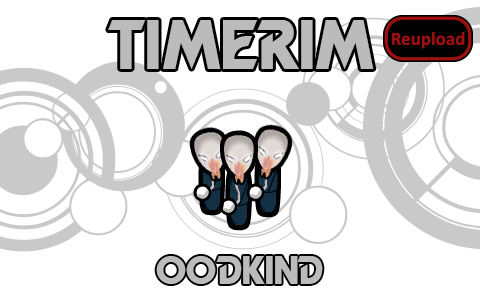
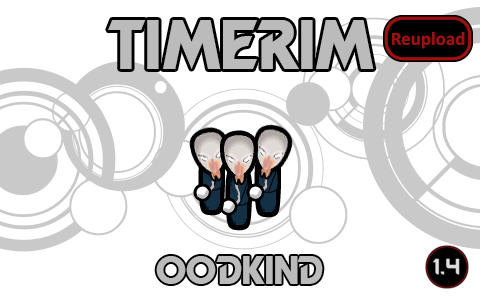
Last update, added end-of-life message

Changed region(s): [[0.875, 0.81, 1.0, 0.96]]

diff --git a/README.md b/README.md
@@ -5,7 +5,7 @@
 Update of demeggys mod
 https://steamcommunity.com/sharedfiles/filedetails/?id=1212506909
 
-![Image](https://i.imgur.com/pufA0kM.png)
+![Image](https://i.imgur.com/KFjAmff.png)
 
 	
 ![Image](https://i.imgur.com/Z4GOv8H.png)
@@ -35,12 +35,13 @@ Large thanks to Erdelf and Xen for their assistance in configuring the Framework
 
 -  See if the the error persists if you just have this mod and its requirements active.
 -  If not, try adding your other mods until it happens again.
--  Post your error-log using https://steamcommunity.com/workshop/filedetails/?id=818773962]HugsLib and command Ctrl+F12
+-  Post your error-log using https://steamcommunity.com/workshop/filedetails/?id=818773962]HugsLib or the standalone https://steamcommunity.com/sharedfiles/filedetails/?id=2873415404]Uploader and command Ctrl+F12
 -  For best support, please use the Discord-channel for error-reporting.
 -  Do not report errors by making a discussion-thread, I get no notification of that.
 -  If you have the solution for a problem, please post it to the GitHub repository.
+-  Use https://github.com/RimSort/RimSort/releases/latest]RimSort to sort your mods
 
 
 
+https://steamcommunity.com/sharedfiles/filedetails/changelog/2049733811]![Image](https://img.shields.io/github/v/release/emipa606/TimerimOodkind?label=latest%20version&style=plastic&color=9f1111&labelColor=black)
 
-https://steamcommunity.com/sharedfiles/filedetails/changelog/2049733811]Last updated 2023-01-09
